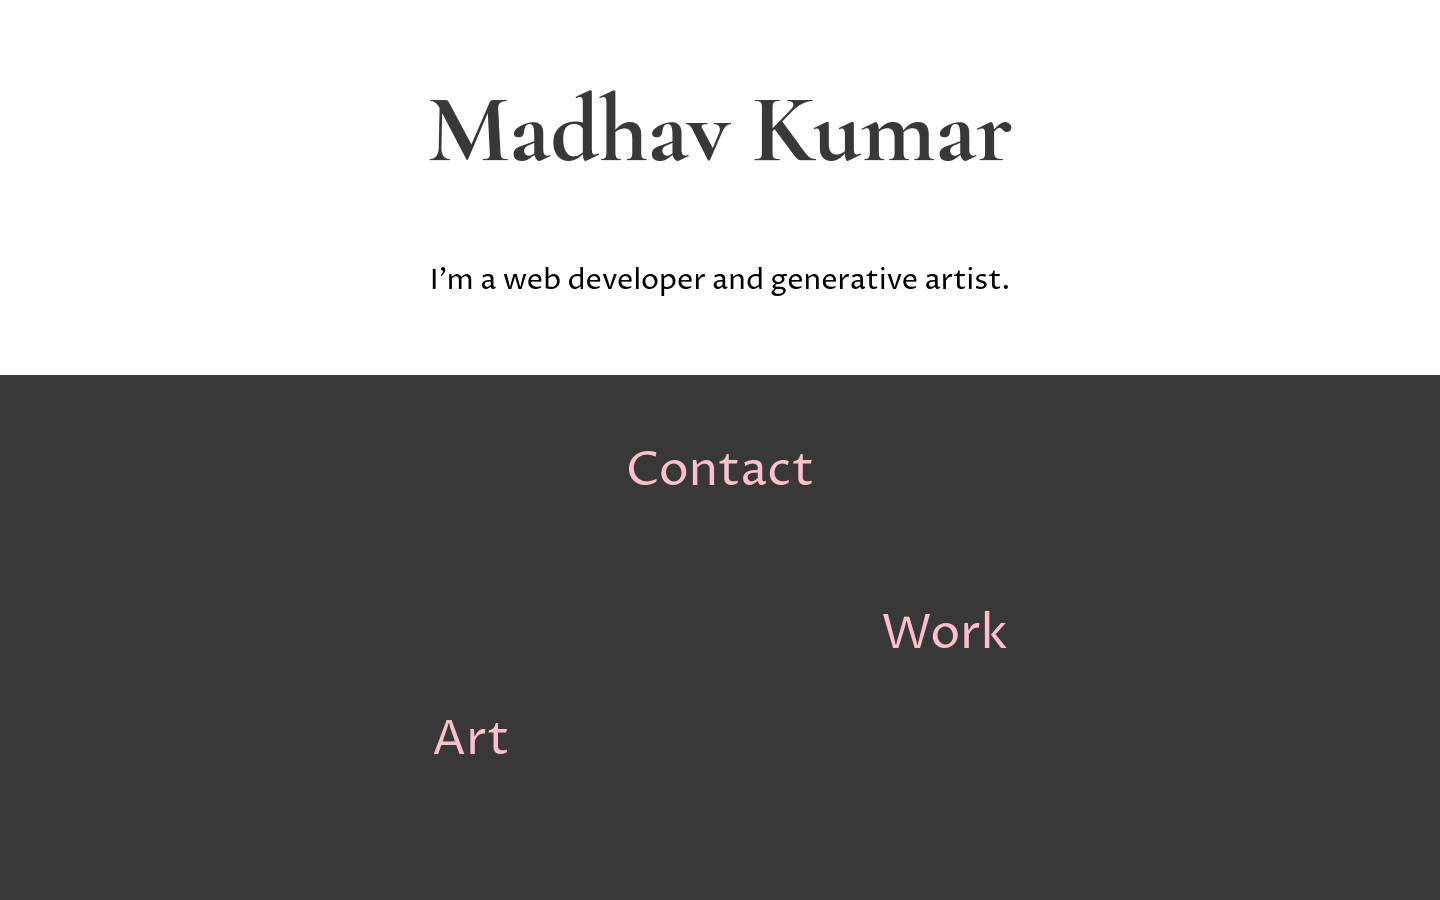
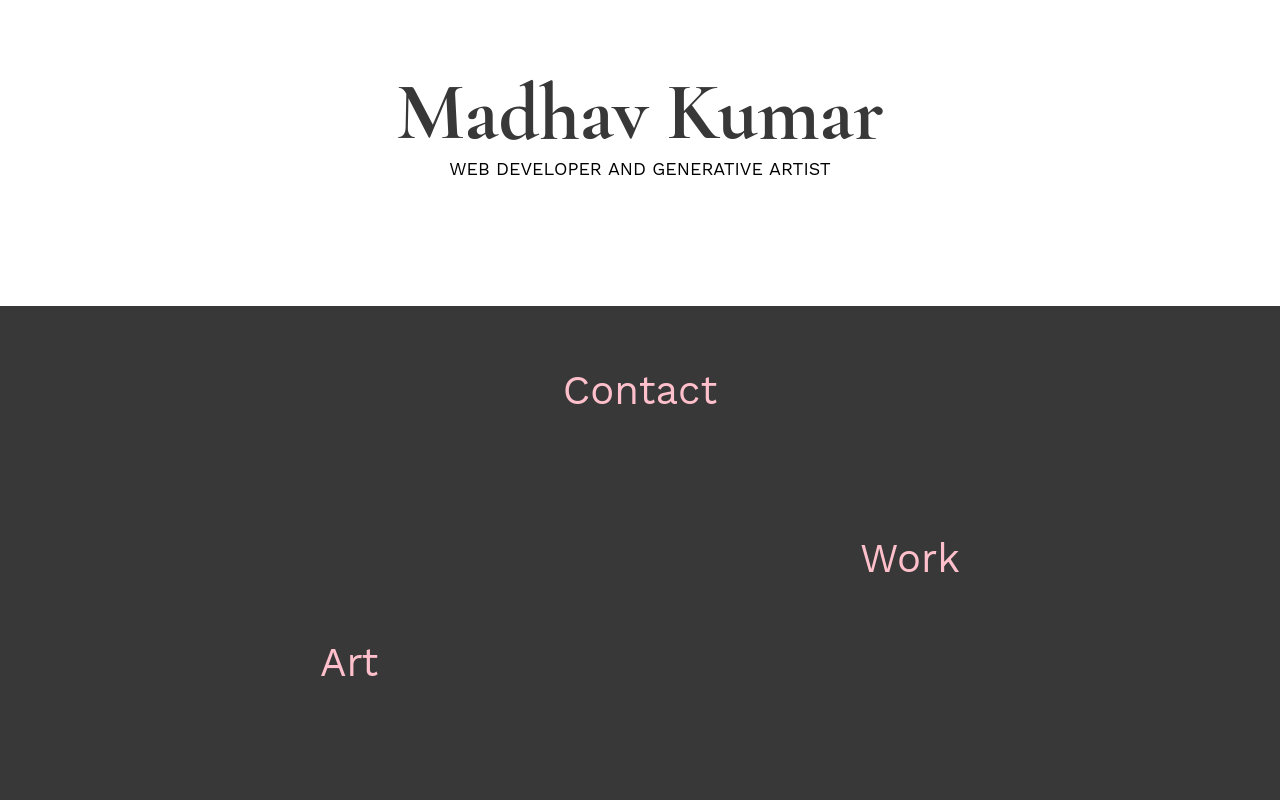
Adjust styling slightly

diff --git a/src/components/layout.css b/src/components/layout.css
@@ -68,7 +68,7 @@ h1 {
   font-size: 4em;
   color: var(--black);
   text-align: center;
-  margin: 15% auto;
+  margin: 15% auto 0 auto;
   font-weight: bold;
   line-height: 1.2;
 }
@@ -78,11 +78,14 @@ h2 {
   color: var(--black);
 }
 
+.work-header {
+  margin: 15% auto 15% auto;
+}
+
 .body {
   text-align: center;
-  font-size: 1.2em;
-  line-height: 1.5;
-  margin: 15% auto;
+  font-size: 0.9em;
+  margin: 0.5% auto 15% auto;
 }
 
 .flex {
@@ -277,18 +280,19 @@ a:visited {
   html {
     font-size: 20px;
   }
-
-  h1 {
-    margin: 5% auto;
-  }
   
+  h1 {
+    margin: 5% auto 0 auto;
+  }
+
   .body {
-    margin: 5% auto;
+    margin: 0 auto 10% auto;
   }
 
-  .bottom-half {
-  }
-
+  .work-header {
+    margin: 10% auto;
+   }
+  
   .list {
     margin: 5% 25%;
   }

diff --git a/src/pages/work.js b/src/pages/work.js
@@ -26,7 +26,7 @@ export const query = graphql`
 const Work = ({data}) => {
 	return ( 
 		<Layout title="Work">
-			<h1>Work</h1>
+			<h1 className="work-header">Work</h1>
 			<div className="flex-wrapper">
 				{data.allWorkJson.edges.map(work => { 
 					return <Entry node={work.node}/>	
